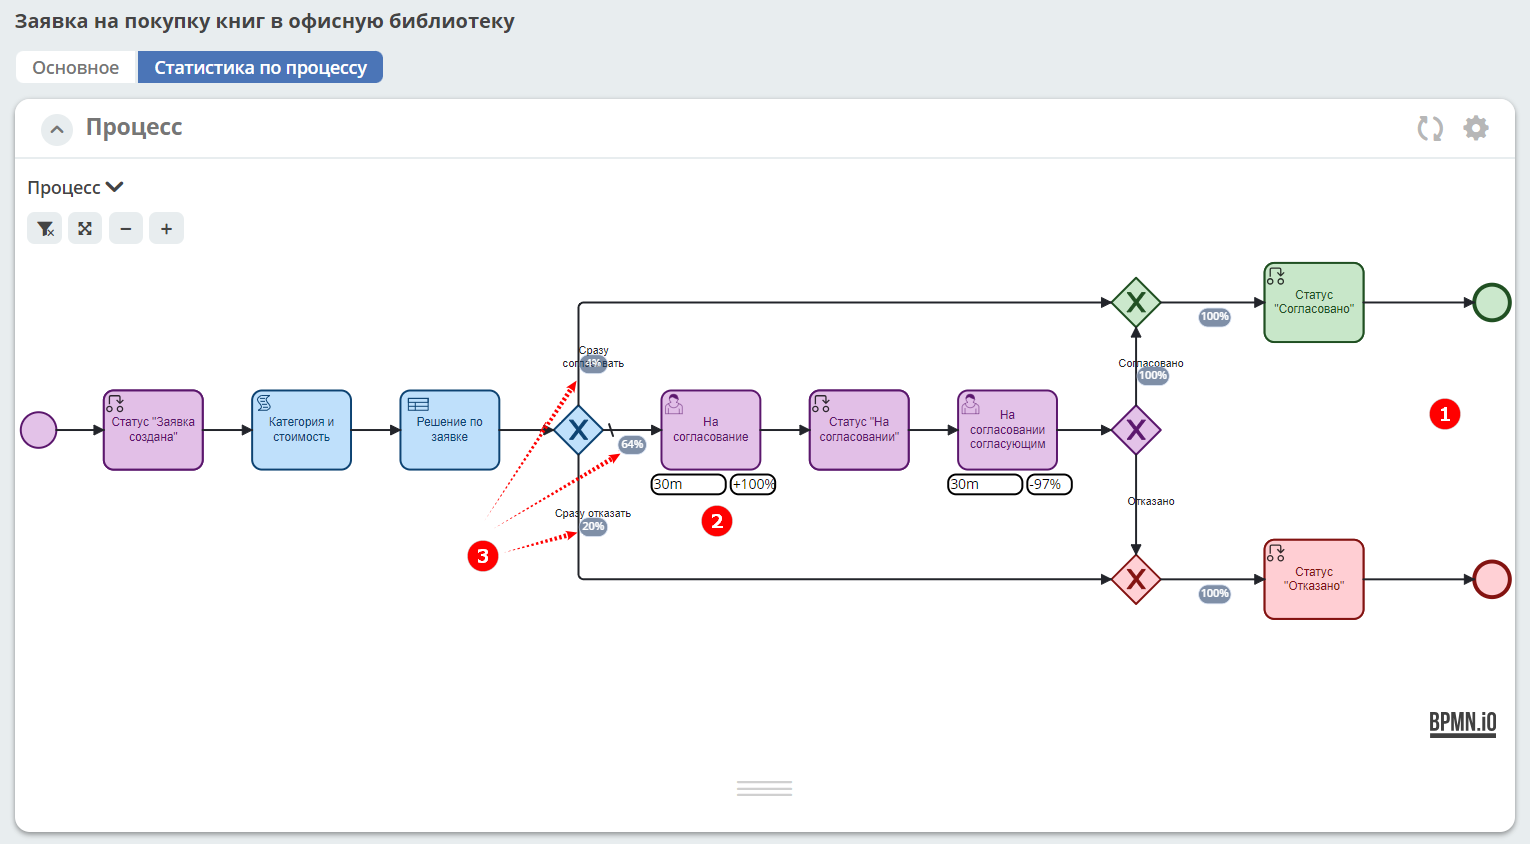
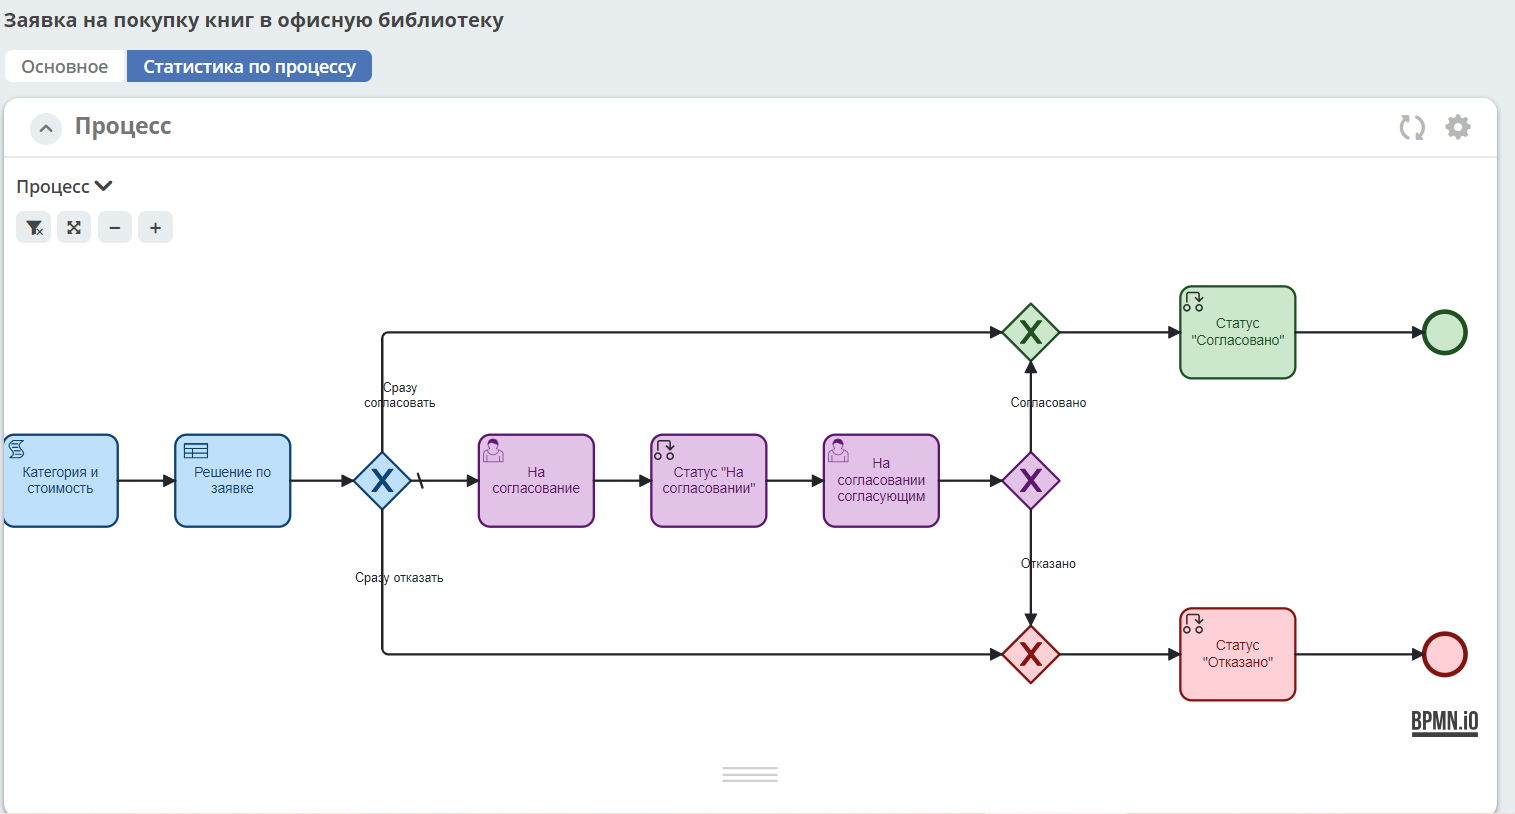
ECOSUI-2876_Display KPI on BPMN schema

Changed region(s): [[0.0, 0.0, 0.9927, 1.0], [0.4653, 0.9214, 0.5274, 0.9521], [0.2482, 0.7064, 0.2792, 0.7371]]

diff --git a/docs/settings_kb/interface/widgets.rst b/docs/settings_kb/interface/widgets.rst
@@ -758,12 +758,7 @@ Cравнение версий процесса - выберите версии 
                  :width: 600  
                  :align: center 
 
- Отображаются:
-
-  * **бизнес-процесс (1)**, 
-  * **целевые значения KPI**, отклонения значения KPI от целевого значения **(2)**,
-  * **% экземпляров**, ушедших по каждой ветке после шлюза **(3)**.
-
+ Отображается только бизнес-процесс.
 
 - **Расширенный режим:**
 
@@ -777,11 +772,11 @@ Cравнение версий процесса - выберите версии 
     * **Тепловая карта (2)**  - Более активным элементам соответствуют тёплые тона, чем меньше показатели — тем холоднее цвет.
     * **Счетчики (3)** - Для каждого шага процесса отображает количество инстансов процесса, находящихся на данном шаге. Отображение счетчиков можно включить/выключить, отображение самого бизнес-процесса останется.
     
-      - **А** – активные инстансы
-      - **В** – завершенные инстансы
+      - **А** – активные инстансы.
+      - **В** – завершенные инстансы.
 
-    * **Целевое значение KPI**, отклонение значения KPI от целевого в % **(4)**.
-    * **% экземпляров**, ушедших по каждой ветке после шлюза **(5)**.
+    * **Целевое значение KPI**, **отклонение значения KPI** от целевого в % **(4)**.
+    * **% экземпляров**, ушедших по каждой ветке после шлюза **(5)**. Расчет % ведется от общего числа экземпляров, прошедших шлюз.
     * **Панель тепловой карты (6)** – настройка прозрачности, отображение минимального и максимального значений активных и завершенных инстансов.
     * **Журнал (7)** -  В журнале для каждого столбца можно настроить фильтрацию и поиск событий. Визуализация будет перерисована в соответствии с выбранными фильтрами.
 
@@ -813,7 +808,7 @@ Cравнение версий процесса - выберите версии 
                  :width: 600  
                  :align: center 
 
-Для **расширенного** режима выбираются отображаемые по умолчанию элементы виджета:
+Для **Расширенного** режима выбираются отображаемые по умолчанию элементы виджета:
 
             .. image:: _static/widgets/Process_statistics_06.png
                  :width: 600  

diff --git a/docs/settings_kb/Типы_данных.rst b/docs/settings_kb/Типы_данных.rst
@@ -1101,7 +1101,7 @@
   1.	**Идентификатор связи.**
   2.	**Наименование связи**, которое будет использоваться в виджете.
   3.	**Атрибут**, в который новые связи будут добавляться и из которого будут загружаться.
-  4.	**Направление связи.** Source является Dad, target, соответственно, Sons. 
+  4.	**Направление связи.** **Source** является **Dad**, **target**, соответственно, **Sons**. 
   5.	**Тип данных.** Для добавления элементов в виджете по нажатию **+**, и правильного отображения столбцов в нем.
 
 2. Перейти в журнал **Dad**, открыть карточку:
@@ -1127,7 +1127,7 @@
   1.	**Идентификатор связи.**
   2.	**Наименование связи**, которое будет использоваться в виджете.
   3.	**Атрибут**, в который новые связи будут добавляться и из которого будут загружаться.
-  4.	**Направление связи.** Source является Son, target, соответственно, Dad. 
+  4.	**Направление связи.** **Source** является **Son**, **target**, соответственно, **Dad**. 
   5.	**Тип данных.** Для добавления элементов в виджете по нажатию **+**, и правильного отображения столбцов в нем.
 
 Перейти в журнал **Sons**, открыть карточку:

diff --git a/docs/introduction/ecos_modules/crm.rst b/docs/introduction/ecos_modules/crm.rst
@@ -162,7 +162,7 @@
         - Если контактов несколько, выставите для отметки контакта основным для данной сделки
       * - **Раздел «Заявка с сайта»**
         - Содержит информацию, если заявка была заполнена на сайте
-      * - **Откуда пришел на сайт**
+      * - **Страница заполнения заявки**
         - Информация из заявки, которую заполняет представитель
       * - **Идентификатор GA**
         - Идентификатор тега Google Analytics
